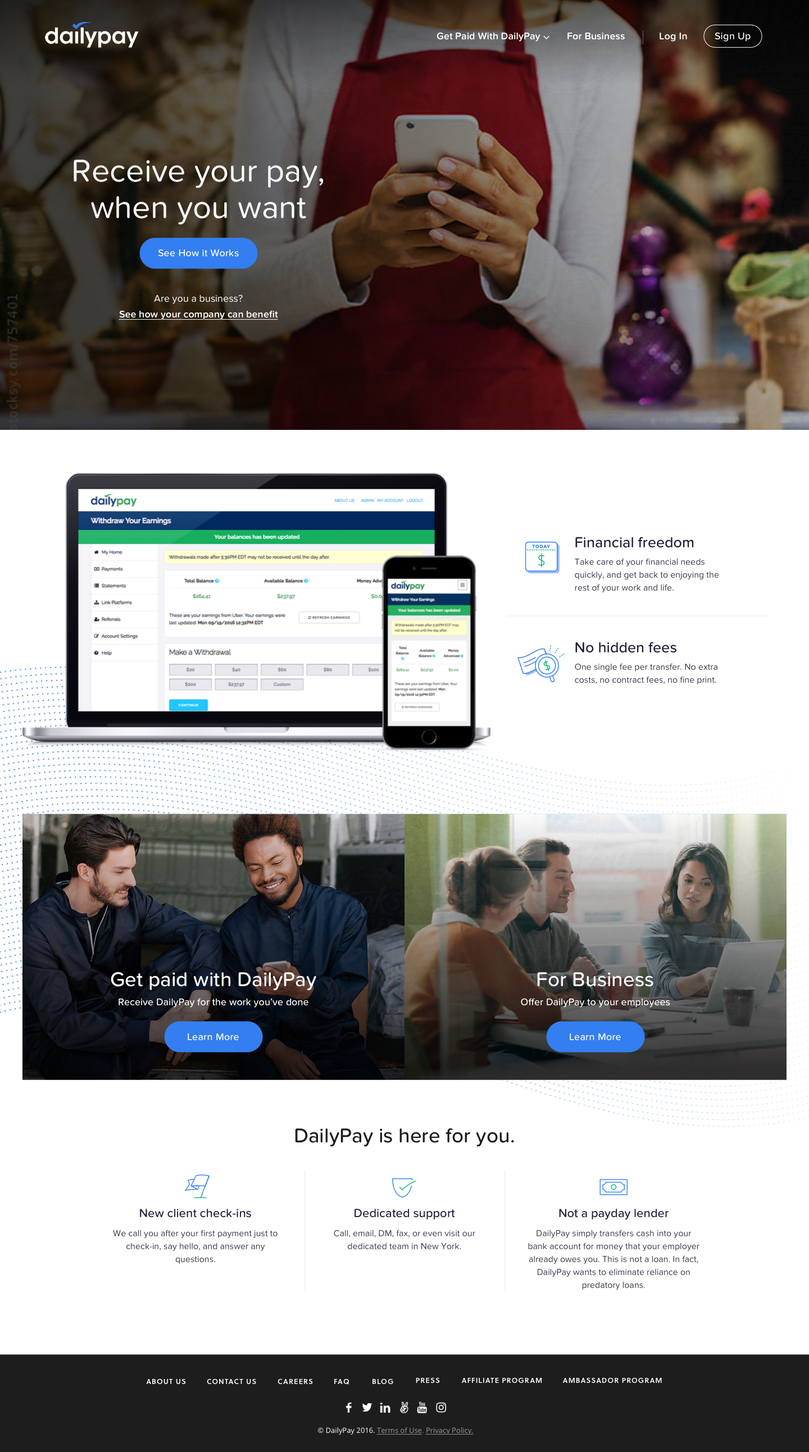
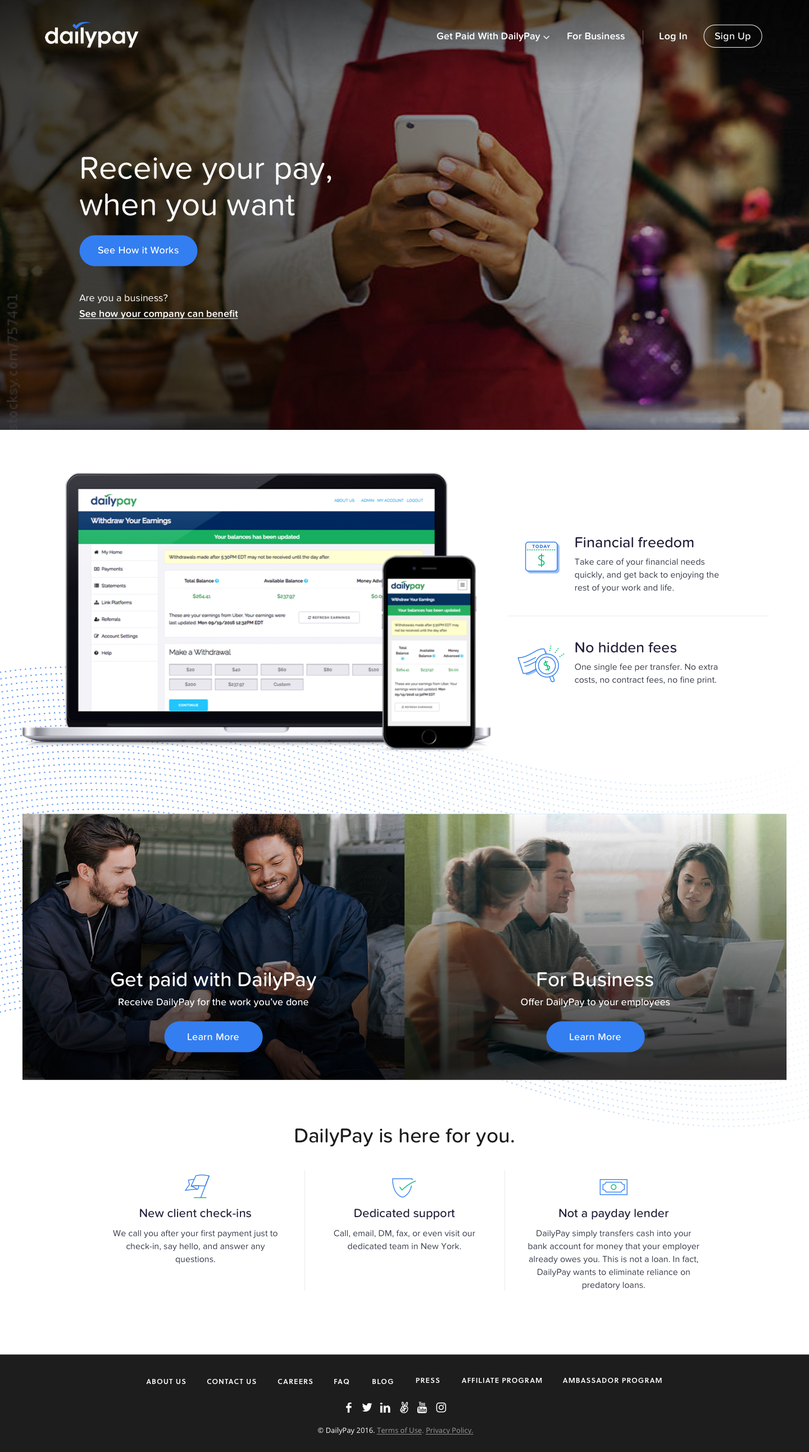
hp text align fix

Changed region(s): [[0.0938, 0.0929, 0.4062, 0.2167]]

diff --git a/dailypay/batch-a-v1/index.hyperesources/index_hype_generated_script.js b/dailypay/batch-a-v1/index.hyperesources/index_hype_generated_script.js
@@ -3,5 +3,5 @@
 (function(){(function k(){function l(a,b,d){var c=!1;null==window[a]&&(null==window[b]?(window[b]=[],window[b].push(k),a=document.getElementsByTagName("head")[0],b=document.createElement("script"),c=h,false==!0&&(c=""),b.type="text/javascript",b.src=c+"/"+d,a.appendChild(b)):window[b].push(k),c=!0);return c}var h="index.hyperesources",c="index",e="index_hype_container";if(false==!1)try{for(var f=document.getElementsByTagName("script"),
 a=0;a<f.length;a++){var b=f[a].src;if(null!=b&&-1!=b.indexOf("index_hype_generated_script.js")){h=b.substr(0,b.lastIndexOf("/"));break}}}catch(n){}if(false==!1&&(a=navigator.userAgent.match(/MSIE (\d+\.\d+)/),a=parseFloat(a&&a[1])||null,a=l("HYPE_538","HYPE_dtl_538",!0==(null!=a&&10>a||false==!0)?"HYPE-538.full.min.js":"HYPE-538.thin.min.js"),false==!0&&(a=a||l("HYPE_w_538","HYPE_wdtl_538","HYPE-538.waypoints.min.js")),a))return;
 f=window.HYPE.documents;if(null!=f[c]){b=1;a=c;do c=""+a+"-"+b++;while(null!=f[c]);for(var d=document.getElementsByTagName("div"),b=!1,a=0;a<d.length;a++)if(d[a].id==e&&null==d[a].getAttribute("HYP_dn")){var b=1,g=e;do e=""+g+"-"+b++;while(null!=document.getElementById(e));d[a].id=e;b=!0;break}if(!1==b)return}b=[];b=[];d={};g={};for(a=0;a<b.length;a++)try{g[b[a].identifier]=b[a].name,d[b[a].name]=eval("(function(){return "+b[a].source+"})();")}catch(m){window.console&&window.console.log(m),
-d[b[a].name]=function(){}}a=new HYPE_538(c,e,{"10":{p:1,n:"Batch_A_RestaurantOwners_v1.jpg",g:"29",t:"@1x"},"2":{p:1,n:"Drivers.png",g:"37",t:"@1x"},"3":{p:1,n:"Daily%20payments%20for.png",g:"39",t:"@1x"},"11":{p:1,n:"Batch_A_ConsumerLanding_v1.jpg",g:"23",t:"@1x"},"4":{p:1,n:"hero.png",g:"41",t:"@1x"},"5":{p:1,n:"main-nav.png",g:"43",t:"@1x"},"12":{p:1,n:"Batch_A_Business_v1.jpg",g:"31",o:true,t:"@1x"},"6":{n:"dailypay-animation.mp4",g:"52",t:"video/mp4"},"7":{p:1,n:"dropdown.png",g:"57",t:"@1x"},"0":{p:1,n:"hero-btn.png",g:"33",t:"@1x"},"8":{p:1,n:"Batch_A_Homepage_v1.jpg",g:"21",t:"@1x"},"1":{p:1,n:"Receive%20cash%20daily%20f.png",g:"35",t:"@1x"},"9":{p:1,n:"Batch_A_Drivers_v1.jpg",g:"25",o:true,t:"@1x"}},h,[],d,[{n:"Homepage",o:"7",X:[0]},{n:"Consumer Landing",o:"10",X:[1]},{n:"Drivers Page",o:"1",X:[2]},{n:"Restaurant Owners",o:"13",X:[3]},{n:"For Business",o:"16",X:[4]}],[{o:"9",p:"600px",x:0,cA:false,Z:2584,Y:1440,c:"#FFFFFF",L:[],bY:1,d:1440,U:{},T:{"59":{f:30,z:0.09,i:"59",n:"Dropdown Animation",j:{"0":[[882,190,882,190,882,181,882,181]]},a:[{f:"61",y:0,z:0.09,i:"e",e:1,s:0,o:"92"},{o:"92",y:0,z:0.09,i:"b",e:88,a:"0",f:"61",s:97},{o:"92",y:0,z:0.09,i:"a",e:760,a:"0",f:"61",s:760},{y:0,i:"cY",s:"0",z:0,o:"92",f:"61"},{y:0.09,i:"e",s:1,z:0,o:"92",f:"c"},{y:0.09,i:"a",s:760,z:0,o:"92",f:"c"},{y:0.09,i:"b",s:88,z:0,o:"92",f:"c"}],b:[]},kTimelineDefaultIdentifier:{i:"kTimelineDefaultIdentifier",n:"Main Timeline",z:0,b:[],a:[],f:30}},bZ:180,O:["92","95","94","93","91"],v:{"92":{h:"57",p:"no-repeat",x:"visible",tY:0.5,a:760,b:88,q:"100% 100%",j:"absolute",z:6,cY:"1",k:"div",d:186,c:244,r:"inline",e:1,tX:0.5},"95":{c:208,d:55,I:"Solid",e:0,J:"Solid",K:"Solid",g:"#E8EBED",L:"Solid",aP:"pointer",M:1,N:1,A:"#D8DDE4",x:"visible",aA:{a:[{d:1.1000000000000001,p:1,g:1,e:"10"}]},O:1,j:"absolute",k:"div",C:"#D8DDE4",z:5,B:"#D8DDE4",D:"#D8DDE4",aC:{a:[{b:"59",p:3,z:true,symbolOid:"8"}]},P:1,a:772,aD:{a:[{b:"59",p:3,z:false,symbolOid:"8"}]},b:46},"91":{h:"21",p:"no-repeat",x:"visible",a:0,q:"100% 100%",b:0,j:"absolute",r:"inline",c:1440,k:"div",z:1,d:2584},"94":{c:108,d:33,I:"Solid",e:0,J:"Solid",K:"Solid",g:"#E8EBED",L:"Solid",aP:"pointer",M:1,N:1,A:"#D8DDE4",x:"visible",aA:{a:[{d:1.1000000000000001,p:1,g:1,e:"16"}]},j:"absolute",O:1,k:"div",C:"#D8DDE4",z:4,B:"#D8DDE4",D:"#D8DDE4",P:1,a:1004,b:46},"93":{c:177,d:62,I:"Solid",e:0,J:"Solid",K:"Solid",g:"#E8EBED",L:"Solid",aP:"pointer",M:1,N:1,A:"#D8DDE4",x:"visible",aA:{a:[{d:1.1000000000000001,p:1,g:1,e:"7"}]},j:"absolute",O:1,k:"div",C:"#D8DDE4",z:2,B:"#D8DDE4",D:"#D8DDE4",P:1,a:72,b:32}}},{o:"12",p:"600px",x:1,cA:false,Z:2533,Y:1440,c:"#FFFFFF",L:[],bY:1,d:1440,U:{},T:{kTimelineDefaultIdentifier:{i:"kTimelineDefaultIdentifier",n:"Main Timeline",z:0,b:[],a:[],f:30}},bZ:180,O:["102","100","97","101","99","96","98"],v:{"99":{c:108,d:33,I:"Solid",e:0,J:"Solid",K:"Solid",g:"#E8EBED",L:"Solid",aP:"pointer",M:1,N:1,A:"#D8DDE4",x:"visible",aA:{a:[{d:1.1000000000000001,p:1,g:1,e:"16"}]},j:"absolute",O:1,k:"div",C:"#D8DDE4",z:3,B:"#D8DDE4",D:"#D8DDE4",P:1,a:1004,b:46},"102":{c:177,d:68,I:"Solid",e:0,J:"Solid",K:"Solid",g:"#E8EBED",L:"Solid",aP:"pointer",M:1,N:1,A:"#D8DDE4",x:"visible",aA:{a:[{d:1.1000000000000001,p:1,g:1,e:"13"}]},j:"absolute",O:1,k:"div",C:"#D8DDE4",z:7,B:"#D8DDE4",D:"#D8DDE4",P:1,a:892,b:621},"97":{c:100,d:55,I:"Solid",e:0,J:"Solid",K:"Solid",g:"#E8EBED",L:"Solid",aP:"pointer",M:1,N:1,A:"#D8DDE4",x:"visible",aA:{a:[{d:1.1000000000000001,p:1,g:1,e:"10"}]},j:"absolute",O:1,k:"div",C:"#D8DDE4",z:5,B:"#D8DDE4",D:"#D8DDE4",P:1,a:405,b:627},"101":{c:208,d:55,I:"Solid",e:0,J:"Solid",K:"Solid",g:"#E8EBED",L:"Solid",aP:"pointer",M:1,N:1,A:"#D8DDE4",x:"visible",aA:{a:[{d:1.1000000000000001,p:1,g:1,e:"10"}]},O:1,j:"absolute",k:"div",C:"#D8DDE4",z:4,B:"#D8DDE4",D:"#D8DDE4",aC:{a:[{b:"59",p:3,z:true,symbolOid:"8"}]},P:1,a:772,aD:{a:[{b:"59",p:3,z:false,symbolOid:"8"}]},b:46},"98":{h:"23",p:"no-repeat",x:"visible",a:0,q:"100% 100%",b:0,j:"absolute",r:"inline",c:1440,k:"div",z:1,d:2533},"100":{c:100,d:68,I:"Solid",e:0,J:"Solid",K:"Solid",g:"#E8EBED",L:"Solid",aP:"pointer",M:1,N:1,A:"#D8DDE4",x:"visible",aA:{a:[{d:1.1000000000000001,p:1,g:1,e:"1"}]},j:"absolute",O:1,k:"div",C:"#D8DDE4",z:6,B:"#D8DDE4",D:"#D8DDE4",P:1,a:669,b:621},"96":{c:177,d:62,I:"Solid",e:0,J:"Solid",K:"Solid",g:"#E8EBED",L:"Solid",aP:"pointer",M:1,N:1,A:"#D8DDE4",x:"visible",aA:{a:[{d:1.1000000000000001,p:1,g:1,e:"7"}]},j:"absolute",O:1,k:"div",C:"#D8DDE4",z:2,B:"#D8DDE4",D:"#D8DDE4",P:1,a:72,b:32}}},{o:"3",p:"600px",x:2,cA:false,Z:5341,Y:1440,c:"#F8F8F8",L:[],bY:1,d:1440,U:{},T:{kTimelineDefaultIdentifier:{f:30,z:17.04,i:"kTimelineDefaultIdentifier",n:"Main Timeline",j:{"3":[[718,306,718,306,718,291,718,291]],"1":[[721,242,721,242,721,227,721,227]],"4":[[718,378,718,378,718,363,718,363]],"2":[[876.5,2,876.5,2,877,2,877,2]],"5":[[720,452,720,452,720,437,720,437]]},a:[{f:"46",y:0,z:0.23,i:"cQ",e:1.02,s:1.2,o:"111"},{f:"46",y:0,z:0.23,i:"cR",e:1.02,s:1.2,o:"111"},{f:"c",y:0,z:0.23,i:"e",e:1,s:0,o:"111"},{f:"c",y:0,z:1,i:"e",e:1,s:0,o:"108"},{f:"c",y:0,z:1,i:"e",e:1,s:0,o:"116"},{y:0,p:1,i:"Video Track",z:17.04,o:"104",f:"a"},{o:"115",y:0.03,z:0.27,i:"b",e:210,a:"1",f:"c",s:225},{o:"115",y:0.03,z:0.27,i:"a",e:569.5,a:"1",f:"c",s:569.5},{f:"c",y:0.03,z:0.27,i:"e",e:1,s:0,o:"115"},{f:"87",y:0.06,z:0.06,i:"e",e:1,s:0,o:"106"},{o:"106",y:0.06,z:0.12,i:"a",e:774.5,a:"2",f:"87",s:876.5},{o:"106",y:0.06,z:0.12,i:"b",e:0,a:"2",f:"87",s:0},{f:"87",y:0.06,z:0.12,i:"c",e:205,s:0,o:"106"},{o:"113",y:0.07,z:0.23,i:"b",e:265.5,a:"3",f:"c",s:280.5},{o:"113",y:0.07,z:0.23,i:"a",e:607.5,a:"3",f:"c",s:607.5},{f:"c",y:0.07,z:0.23,i:"e",e:1,s:0,o:"113"},{o:"112",y:0.11,z:0.22,i:"b",e:342.5,a:"4",f:"c",s:357.5},{o:"112",y:0.11,z:0.22,i:"a",e:515,a:"4",f:"c",s:515},{f:"c",y:0.11,z:0.22,i:"e",e:1,s:0,o:"112"},{y:0.12,i:"e",s:1,z:0,o:"106",f:"c"},{o:"114",y:0.14,z:0.19,i:"b",e:409,a:"5",f:"c",s:424},{o:"114",y:0.14,z:0.19,i:"a",e:603,a:"5",f:"c",s:603},{f:"c",y:0.14,z:0.19,i:"e",e:1,s:0,o:"114"},{y:0.18,i:"b",s:0,z:0,o:"106",f:"c"},{y:0.18,i:"a",s:774,z:0,o:"106",f:"c"},{y:0.18,i:"c",s:205,z:0,o:"106",f:"c"},{y:0.23,i:"cQ",s:1.02,z:0,o:"111",f:"c"},{y:0.23,i:"cR",s:1.02,z:0,o:"111",f:"c"},{y:0.23,i:"e",s:1,z:0,o:"111",f:"c"},{y:1,i:"b",s:210,z:0,o:"115",f:"c"},{y:1,i:"a",s:569.5,z:0,o:"115",f:"c"},{y:1,i:"e",s:1,z:0,o:"115",f:"c"},{y:1,i:"b",s:265.5,z:0,o:"113",f:"c"},{y:1,i:"a",s:607.5,z:0,o:"113",f:"c"},{y:1,i:"e",s:1,z:0,o:"113",f:"c"},{y:1,i:"e",s:1,z:0,o:"108",f:"c"},{y:1,i:"e",s:1,z:0,o:"116",f:"c"},{y:1.03,i:"b",s:342.5,z:0,o:"112",f:"c"},{y:1.03,i:"a",s:515,z:0,o:"112",f:"c"},{y:1.03,i:"e",s:1,z:0,o:"112",f:"c"},{y:1.03,i:"b",s:409,z:0,o:"114",f:"c"},{y:1.03,i:"a",s:603,z:0,o:"114",f:"c"},{y:1.03,i:"e",s:1,z:0,o:"114",f:"c"}],b:[]}},bZ:180,O:["109","105","103","119","118","107","104","106","108","115","113","112","114","111","110","117","116"],v:{"114":{h:"33",p:"no-repeat",x:"visible",tY:0.5,a:603,q:"100% 100%",j:"absolute",b:424,z:2,k:"div",bF:"110",d:56,c:234,r:"inline",e:0,tX:0.5},"103":{c:100,d:55,I:"Solid",e:0,J:"Solid",K:"Solid",g:"#E8EBED",L:"Solid",aP:"pointer",M:1,N:1,A:"#D8DDE4",x:"visible",aA:{a:[{d:1.1000000000000001,p:1,g:1,e:"10"}]},j:"absolute",O:1,k:"div",C:"#D8DDE4",z:15,B:"#D8DDE4",D:"#D8DDE4",P:1,a:405,b:627},"117":{h:"25",p:"no-repeat",x:"visible",a:0,q:"100% 100%",b:-620,j:"absolute",bF:"116",c:1440,k:"div",z:1,d:5341,r:"inline"},"112":{h:"35",p:"no-repeat",x:"visible",tY:0.5,a:515,q:"100% 100%",j:"absolute",b:357.5,z:3,k:"div",bF:"110",d:41,c:406,r:"inline",e:0,tX:0.5},"106":{b:0,c:0,d:4,I:"None",e:0,J:"None",K:"None",g:"#337FF2",L:"None",M:0,N:0,A:"#D8DDE4",x:"visible",j:"absolute",k:"div",O:0,B:"#D8DDE4",C:"#D8DDE4",z:10,P:0,D:"#D8DDE4",tX:0.5,a:876.5,tY:0.5},"109":{c:177,d:68,I:"Solid",e:0,J:"Solid",K:"Solid",g:"#E8EBED",L:"Solid",aP:"pointer",M:1,N:1,A:"#D8DDE4",x:"visible",aA:{a:[{d:1.1000000000000001,p:1,g:1,e:"13"}]},j:"absolute",O:1,k:"div",C:"#D8DDE4",z:17,B:"#D8DDE4",D:"#D8DDE4",P:1,a:892,b:621},"104":{aR:"1",x:"visible",bE:"52",a:0,b:1858,j:"absolute",z:11,k:"video",aO:"0",d:934,c:1440,cQ:1.01,cR:1.01,aQ:"1",aH:"1"},"110":{k:"div",x:"hidden",c:1440,d:620,z:3,a:0,j:"absolute",b:0},"115":{h:"39",p:"no-repeat",x:"visible",tY:0.5,a:569.5,q:"100% 100%",j:"absolute",b:225,z:5,k:"div",bF:"110",d:34,c:303,r:"inline",e:0,tX:0.5},"118":{c:108,d:33,I:"Solid",e:0,J:"Solid",K:"Solid",g:"#E8EBED",L:"Solid",aP:"pointer",M:1,N:1,A:"#D8DDE4",x:"visible",aA:{a:[{d:1.1000000000000001,p:1,g:1,e:"16"}]},j:"absolute",O:1,k:"div",C:"#D8DDE4",z:13,B:"#D8DDE4",D:"#D8DDE4",P:1,a:1004,b:46},"107":{c:177,d:62,I:"Solid",e:0,J:"Solid",K:"Solid",g:"#E8EBED",L:"Solid",aP:"pointer",M:1,N:1,A:"#D8DDE4",x:"visible",aA:{a:[{d:1.1000000000000001,p:1,g:1,e:"7"}]},j:"absolute",O:1,k:"div",C:"#D8DDE4",z:12,B:"#D8DDE4",D:"#D8DDE4",P:1,a:72,b:32},"113":{h:"37",p:"no-repeat",x:"visible",tY:0.5,a:607.5,q:"100% 100%",j:"absolute",b:280.5,z:4,k:"div",bF:"110",d:51,c:221,r:"inline",e:0,tX:0.5},"116":{x:"hidden",k:"div",c:1440,d:4721,z:1,e:0,a:0,j:"absolute",b:620},"105":{c:100,d:68,I:"Solid",e:0,J:"Solid",K:"Solid",g:"#E8EBED",L:"Solid",aP:"pointer",M:1,N:1,A:"#D8DDE4",x:"visible",aA:{a:[{d:1.1000000000000001,p:1,g:1,e:"1"}]},j:"absolute",O:1,k:"div",C:"#D8DDE4",z:16,B:"#D8DDE4",D:"#D8DDE4",P:1,a:669,b:621},"111":{h:"41",p:"no-repeat",x:"visible",a:1,q:"100% 100%",b:0,j:"absolute",bF:"110",z:1,k:"div",c:1440,d:620.56899999999996,r:"inline",cQ:1.2,e:0,cR:1.2},"119":{c:208,d:55,I:"Solid",e:0,J:"Solid",K:"Solid",g:"#E8EBED",L:"Solid",aP:"pointer",M:1,N:1,A:"#D8DDE4",x:"visible",aA:{a:[{d:1.1000000000000001,p:1,g:1,e:"10"}]},O:1,j:"absolute",k:"div",C:"#D8DDE4",z:14,B:"#D8DDE4",D:"#D8DDE4",aC:{a:[{b:"59",p:3,z:true,symbolOid:"8"}]},P:1,a:772,aD:{a:[{b:"59",p:3,z:false,symbolOid:"8"}]},b:46},"108":{h:"43",p:"no-repeat",x:"visible",tY:0.5,a:80,q:"100% 100%",j:"absolute",b:34,z:9,k:"div",c:1277,d:47,r:"inline",e:0,tX:0.5}}},{o:"15",p:"600px",x:3,cA:false,Z:5368,Y:1440,c:"#FFFFFF",L:[],bY:1,d:1440,U:{},T:{kTimelineDefaultIdentifier:{i:"kTimelineDefaultIdentifier",n:"Main Timeline",z:0,b:[],a:[],f:30}},bZ:180,O:["125","121","126","122","120","124","123"],v:{"122":{c:208,d:55,I:"Solid",e:0,J:"Solid",K:"Solid",g:"#E8EBED",L:"Solid",aP:"pointer",M:1,N:1,A:"#D8DDE4",x:"visible",aA:{a:[{d:1.1000000000000001,p:1,g:1,e:"10"}]},O:1,j:"absolute",k:"div",C:"#D8DDE4",z:4,B:"#D8DDE4",D:"#D8DDE4",aC:{a:[{b:"59",p:3,z:true,symbolOid:"8"}]},P:1,a:772,aD:{a:[{b:"59",p:3,z:false,symbolOid:"8"}]},b:46},"125":{c:177,d:68,I:"Solid",e:0,J:"Solid",K:"Solid",g:"#E8EBED",L:"Solid",aP:"pointer",M:1,N:1,A:"#D8DDE4",x:"visible",aA:{a:[{d:1.1000000000000001,p:1,g:1,e:"13"}]},j:"absolute",O:1,k:"div",C:"#D8DDE4",z:7,B:"#D8DDE4",D:"#D8DDE4",P:1,a:892,b:621},"121":{c:100,d:68,I:"Solid",e:0,J:"Solid",K:"Solid",g:"#E8EBED",L:"Solid",aP:"pointer",M:1,N:1,A:"#D8DDE4",x:"visible",aA:{a:[{d:1.1000000000000001,p:1,g:1,e:"1"}]},j:"absolute",O:1,k:"div",C:"#D8DDE4",z:6,B:"#D8DDE4",D:"#D8DDE4",P:1,a:669,b:621},"124":{c:177,d:62,I:"Solid",e:0,J:"Solid",K:"Solid",g:"#E8EBED",L:"Solid",aP:"pointer",M:1,N:1,A:"#D8DDE4",x:"visible",aA:{a:[{d:1.1000000000000001,p:1,g:1,e:"7"}]},j:"absolute",O:1,k:"div",C:"#D8DDE4",z:2,B:"#D8DDE4",D:"#D8DDE4",P:1,a:72,b:32},"120":{c:108,d:33,I:"Solid",e:0,J:"Solid",K:"Solid",g:"#E8EBED",L:"Solid",aP:"pointer",M:1,N:1,A:"#D8DDE4",x:"visible",aA:{a:[{d:1.1000000000000001,p:1,g:1,e:"16"}]},j:"absolute",O:1,k:"div",C:"#D8DDE4",z:3,B:"#D8DDE4",D:"#D8DDE4",P:1,a:1004,b:46},"123":{h:"29",p:"no-repeat",x:"visible",a:0,q:"100% 100%",b:0,j:"absolute",r:"inline",c:1440,k:"div",z:1,d:5368},"126":{c:100,d:55,I:"Solid",e:0,J:"Solid",K:"Solid",g:"#E8EBED",L:"Solid",aP:"pointer",M:1,N:1,A:"#D8DDE4",x:"visible",aA:{a:[{d:1.1000000000000001,p:1,g:1,e:"10"}]},j:"absolute",O:1,k:"div",C:"#D8DDE4",z:5,B:"#D8DDE4",D:"#D8DDE4",P:1,a:405,b:627}}},{o:"18",p:"600px",x:4,cA:false,Z:7074,Y:1440,c:"#FFFFFF",L:[],bY:1,d:1440,U:{},T:{kTimelineDefaultIdentifier:{i:"kTimelineDefaultIdentifier",n:"Main Timeline",z:0,b:[],a:[],f:30}},bZ:180,O:["128","130","127","129"],v:{"127":{c:177,d:62,I:"Solid",e:0,J:"Solid",K:"Solid",g:"#E8EBED",L:"Solid",aP:"pointer",M:1,N:1,A:"#D8DDE4",x:"visible",aA:{a:[{d:1.1000000000000001,p:1,g:1,e:"7"}]},j:"absolute",O:1,k:"div",C:"#D8DDE4",z:2,B:"#D8DDE4",D:"#D8DDE4",P:1,a:72,b:32},"128":{c:208,d:55,I:"Solid",e:0,J:"Solid",K:"Solid",g:"#E8EBED",L:"Solid",aP:"pointer",M:1,N:1,A:"#D8DDE4",x:"visible",aA:{a:[{d:1.1000000000000001,p:1,g:1,e:"10"}]},O:1,j:"absolute",k:"div",C:"#D8DDE4",z:4,B:"#D8DDE4",D:"#D8DDE4",aC:{a:[{b:"59",p:3,z:true,symbolOid:"8"}]},P:1,a:772,aD:{a:[{b:"59",p:3,z:false,symbolOid:"8"}]},b:46},"130":{c:108,d:33,I:"Solid",e:0,J:"Solid",K:"Solid",g:"#E8EBED",L:"Solid",aP:"pointer",M:1,N:1,A:"#D8DDE4",x:"visible",aA:{a:[{d:1.1000000000000001,p:1,g:1,e:"16"}]},j:"absolute",O:1,k:"div",C:"#D8DDE4",z:3,B:"#D8DDE4",D:"#D8DDE4",P:1,a:1004,b:46},"129":{h:"31",p:"no-repeat",x:"visible",a:0,q:"100% 100%",b:0,j:"absolute",r:"inline",c:1440,k:"div",z:1,d:7074}}}],{},g,{"61":[[0,0,0.4262,0.05393,0.07059,0.8431,1,1]],"87":[[0,0,0.4009,0.1659,-0.01832,0.6602,1,1]],"46":[[0,0,0.4171,0.07835,0.07777,0.8551,1,1]]},null,false,true,-1,true,true,false,true);f[c]=a.API;document.getElementById(e).setAttribute("HYP_dn",
+d[b[a].name]=function(){}}a=new HYPE_538(c,e,{"10":{p:1,n:"Batch_A_ConsumerLanding_v1.jpg",g:"23",t:"@1x"},"2":{p:1,n:"Drivers.png",g:"37",t:"@1x"},"3":{p:1,n:"Daily%20payments%20for.png",g:"39",t:"@1x"},"11":{p:1,n:"Batch_A_Business_v1.jpg",g:"31",o:true,t:"@1x"},"4":{p:1,n:"hero.png",g:"41",t:"@1x"},"5":{p:1,n:"main-nav.png",g:"43",t:"@1x"},"12":{p:1,n:"Batch_A_Homepage_v1.jpg",g:"21",t:"@1x"},"6":{n:"dailypay-animation.mp4",g:"52",t:"video/mp4"},"7":{p:1,n:"dropdown.png",g:"57",t:"@1x"},"0":{p:1,n:"hero-btn.png",g:"33",t:"@1x"},"8":{p:1,n:"Batch_A_Drivers_v1.jpg",g:"25",o:true,t:"@1x"},"1":{p:1,n:"Receive%20cash%20daily%20f.png",g:"35",t:"@1x"},"9":{p:1,n:"Batch_A_RestaurantOwners_v1.jpg",g:"29",t:"@1x"}},h,[],d,[{n:"Homepage",o:"7",X:[0]},{n:"Consumer Landing",o:"10",X:[1]},{n:"Drivers Page",o:"1",X:[2]},{n:"Restaurant Owners",o:"13",X:[3]},{n:"For Business",o:"16",X:[4]}],[{o:"9",p:"600px",x:0,cA:false,Z:2584,Y:1440,c:"#FFFFFF",L:[],bY:1,d:1440,U:{},T:{"59":{f:30,z:0.09,i:"59",n:"Dropdown Animation",j:{"0":[[882,190,882,190,882,181,882,181]]},a:[{f:"61",y:0,z:0.09,i:"e",e:1,s:0,o:"92"},{o:"92",y:0,z:0.09,i:"b",e:88,a:"0",f:"61",s:97},{o:"92",y:0,z:0.09,i:"a",e:760,a:"0",f:"61",s:760},{y:0,i:"cY",s:"0",z:0,o:"92",f:"61"},{y:0.09,i:"e",s:1,z:0,o:"92",f:"c"},{y:0.09,i:"a",s:760,z:0,o:"92",f:"c"},{y:0.09,i:"b",s:88,z:0,o:"92",f:"c"}],b:[]},kTimelineDefaultIdentifier:{i:"kTimelineDefaultIdentifier",n:"Main Timeline",z:0,b:[],a:[],f:30}},bZ:180,O:["92","95","94","93","91"],v:{"92":{h:"57",p:"no-repeat",x:"visible",tY:0.5,a:760,b:88,q:"100% 100%",j:"absolute",z:6,cY:"1",k:"div",d:186,c:244,r:"inline",e:1,tX:0.5},"95":{c:208,d:55,I:"Solid",e:0,J:"Solid",K:"Solid",g:"#E8EBED",L:"Solid",aP:"pointer",M:1,N:1,A:"#D8DDE4",x:"visible",aA:{a:[{d:1.1000000000000001,p:1,g:1,e:"10"}]},O:1,j:"absolute",k:"div",C:"#D8DDE4",z:5,B:"#D8DDE4",D:"#D8DDE4",aC:{a:[{b:"59",p:3,z:true,symbolOid:"8"}]},P:1,a:772,aD:{a:[{b:"59",p:3,z:false,symbolOid:"8"}]},b:46},"91":{h:"21",p:"no-repeat",x:"visible",a:0,q:"100% 100%",b:0,j:"absolute",r:"inline",c:1440,k:"div",z:1,d:2584},"94":{c:108,d:33,I:"Solid",e:0,J:"Solid",K:"Solid",g:"#E8EBED",L:"Solid",aP:"pointer",M:1,N:1,A:"#D8DDE4",x:"visible",aA:{a:[{d:1.1000000000000001,p:1,g:1,e:"16"}]},j:"absolute",O:1,k:"div",C:"#D8DDE4",z:4,B:"#D8DDE4",D:"#D8DDE4",P:1,a:1004,b:46},"93":{c:177,d:62,I:"Solid",e:0,J:"Solid",K:"Solid",g:"#E8EBED",L:"Solid",aP:"pointer",M:1,N:1,A:"#D8DDE4",x:"visible",aA:{a:[{d:1.1000000000000001,p:1,g:1,e:"7"}]},j:"absolute",O:1,k:"div",C:"#D8DDE4",z:2,B:"#D8DDE4",D:"#D8DDE4",P:1,a:72,b:32}}},{o:"12",p:"600px",x:1,cA:false,Z:2533,Y:1440,c:"#FFFFFF",L:[],bY:1,d:1440,U:{},T:{kTimelineDefaultIdentifier:{i:"kTimelineDefaultIdentifier",n:"Main Timeline",z:0,b:[],a:[],f:30}},bZ:180,O:["102","100","97","101","99","96","98"],v:{"99":{c:108,d:33,I:"Solid",e:0,J:"Solid",K:"Solid",g:"#E8EBED",L:"Solid",aP:"pointer",M:1,N:1,A:"#D8DDE4",x:"visible",aA:{a:[{d:1.1000000000000001,p:1,g:1,e:"16"}]},j:"absolute",O:1,k:"div",C:"#D8DDE4",z:3,B:"#D8DDE4",D:"#D8DDE4",P:1,a:1004,b:46},"102":{c:177,d:68,I:"Solid",e:0,J:"Solid",K:"Solid",g:"#E8EBED",L:"Solid",aP:"pointer",M:1,N:1,A:"#D8DDE4",x:"visible",aA:{a:[{d:1.1000000000000001,p:1,g:1,e:"13"}]},j:"absolute",O:1,k:"div",C:"#D8DDE4",z:7,B:"#D8DDE4",D:"#D8DDE4",P:1,a:892,b:621},"97":{c:100,d:55,I:"Solid",e:0,J:"Solid",K:"Solid",g:"#E8EBED",L:"Solid",aP:"pointer",M:1,N:1,A:"#D8DDE4",x:"visible",aA:{a:[{d:1.1000000000000001,p:1,g:1,e:"10"}]},j:"absolute",O:1,k:"div",C:"#D8DDE4",z:5,B:"#D8DDE4",D:"#D8DDE4",P:1,a:405,b:627},"101":{c:208,d:55,I:"Solid",e:0,J:"Solid",K:"Solid",g:"#E8EBED",L:"Solid",aP:"pointer",M:1,N:1,A:"#D8DDE4",x:"visible",aA:{a:[{d:1.1000000000000001,p:1,g:1,e:"10"}]},O:1,j:"absolute",k:"div",C:"#D8DDE4",z:4,B:"#D8DDE4",D:"#D8DDE4",aC:{a:[{b:"59",p:3,z:true,symbolOid:"8"}]},P:1,a:772,aD:{a:[{b:"59",p:3,z:false,symbolOid:"8"}]},b:46},"98":{h:"23",p:"no-repeat",x:"visible",a:0,q:"100% 100%",b:0,j:"absolute",r:"inline",c:1440,k:"div",z:1,d:2533},"100":{c:100,d:68,I:"Solid",e:0,J:"Solid",K:"Solid",g:"#E8EBED",L:"Solid",aP:"pointer",M:1,N:1,A:"#D8DDE4",x:"visible",aA:{a:[{d:1.1000000000000001,p:1,g:1,e:"1"}]},j:"absolute",O:1,k:"div",C:"#D8DDE4",z:6,B:"#D8DDE4",D:"#D8DDE4",P:1,a:669,b:621},"96":{c:177,d:62,I:"Solid",e:0,J:"Solid",K:"Solid",g:"#E8EBED",L:"Solid",aP:"pointer",M:1,N:1,A:"#D8DDE4",x:"visible",aA:{a:[{d:1.1000000000000001,p:1,g:1,e:"7"}]},j:"absolute",O:1,k:"div",C:"#D8DDE4",z:2,B:"#D8DDE4",D:"#D8DDE4",P:1,a:72,b:32}}},{o:"3",p:"600px",x:2,cA:false,Z:5341,Y:1440,c:"#F8F8F8",L:[],bY:1,d:1440,U:{},T:{kTimelineDefaultIdentifier:{f:30,z:17.04,i:"kTimelineDefaultIdentifier",n:"Main Timeline",j:{"3":[[718,306,718,306,718,291,718,291]],"1":[[721,242,721,242,721,227,721,227]],"4":[[718,378,718,378,718,363,718,363]],"2":[[876.5,2,876.5,2,877,2,877,2]],"5":[[720,452,720,452,720,437,720,437]]},a:[{f:"46",y:0,z:0.23,i:"cQ",e:1.02,s:1.2,o:"111"},{f:"46",y:0,z:0.23,i:"cR",e:1.02,s:1.2,o:"111"},{f:"c",y:0,z:0.23,i:"e",e:1,s:0,o:"111"},{f:"c",y:0,z:1,i:"e",e:1,s:0,o:"108"},{f:"c",y:0,z:1,i:"e",e:1,s:0,o:"116"},{y:0,p:1,i:"Video Track",z:17.04,o:"104",f:"a"},{o:"115",y:0.03,z:0.27,i:"b",e:210,a:"1",f:"c",s:225},{o:"115",y:0.03,z:0.27,i:"a",e:569.5,a:"1",f:"c",s:569.5},{f:"c",y:0.03,z:0.27,i:"e",e:1,s:0,o:"115"},{f:"87",y:0.06,z:0.06,i:"e",e:1,s:0,o:"106"},{o:"106",y:0.06,z:0.12,i:"a",e:774.5,a:"2",f:"87",s:876.5},{o:"106",y:0.06,z:0.12,i:"b",e:0,a:"2",f:"87",s:0},{f:"87",y:0.06,z:0.12,i:"c",e:205,s:0,o:"106"},{o:"113",y:0.07,z:0.23,i:"b",e:265.5,a:"3",f:"c",s:280.5},{o:"113",y:0.07,z:0.23,i:"a",e:607.5,a:"3",f:"c",s:607.5},{f:"c",y:0.07,z:0.23,i:"e",e:1,s:0,o:"113"},{o:"112",y:0.11,z:0.22,i:"b",e:342.5,a:"4",f:"c",s:357.5},{o:"112",y:0.11,z:0.22,i:"a",e:515,a:"4",f:"c",s:515},{f:"c",y:0.11,z:0.22,i:"e",e:1,s:0,o:"112"},{y:0.12,i:"e",s:1,z:0,o:"106",f:"c"},{o:"114",y:0.14,z:0.19,i:"b",e:409,a:"5",f:"c",s:424},{o:"114",y:0.14,z:0.19,i:"a",e:603,a:"5",f:"c",s:603},{f:"c",y:0.14,z:0.19,i:"e",e:1,s:0,o:"114"},{y:0.18,i:"b",s:0,z:0,o:"106",f:"c"},{y:0.18,i:"a",s:774,z:0,o:"106",f:"c"},{y:0.18,i:"c",s:205,z:0,o:"106",f:"c"},{y:0.23,i:"cQ",s:1.02,z:0,o:"111",f:"c"},{y:0.23,i:"cR",s:1.02,z:0,o:"111",f:"c"},{y:0.23,i:"e",s:1,z:0,o:"111",f:"c"},{y:1,i:"b",s:210,z:0,o:"115",f:"c"},{y:1,i:"a",s:569.5,z:0,o:"115",f:"c"},{y:1,i:"e",s:1,z:0,o:"115",f:"c"},{y:1,i:"b",s:265.5,z:0,o:"113",f:"c"},{y:1,i:"a",s:607.5,z:0,o:"113",f:"c"},{y:1,i:"e",s:1,z:0,o:"113",f:"c"},{y:1,i:"e",s:1,z:0,o:"108",f:"c"},{y:1,i:"e",s:1,z:0,o:"116",f:"c"},{y:1.03,i:"b",s:342.5,z:0,o:"112",f:"c"},{y:1.03,i:"a",s:515,z:0,o:"112",f:"c"},{y:1.03,i:"e",s:1,z:0,o:"112",f:"c"},{y:1.03,i:"b",s:409,z:0,o:"114",f:"c"},{y:1.03,i:"a",s:603,z:0,o:"114",f:"c"},{y:1.03,i:"e",s:1,z:0,o:"114",f:"c"}],b:[]}},bZ:180,O:["109","105","103","119","118","107","104","106","108","115","113","112","114","111","110","117","116"],v:{"114":{h:"33",p:"no-repeat",x:"visible",tY:0.5,a:603,q:"100% 100%",j:"absolute",b:424,z:2,k:"div",bF:"110",d:56,c:234,r:"inline",e:0,tX:0.5},"103":{c:100,d:55,I:"Solid",e:0,J:"Solid",K:"Solid",g:"#E8EBED",L:"Solid",aP:"pointer",M:1,N:1,A:"#D8DDE4",x:"visible",aA:{a:[{d:1.1000000000000001,p:1,g:1,e:"10"}]},j:"absolute",O:1,k:"div",C:"#D8DDE4",z:15,B:"#D8DDE4",D:"#D8DDE4",P:1,a:405,b:627},"117":{h:"25",p:"no-repeat",x:"visible",a:0,q:"100% 100%",b:-620,j:"absolute",bF:"116",c:1440,k:"div",z:1,d:5341,r:"inline"},"112":{h:"35",p:"no-repeat",x:"visible",tY:0.5,a:515,q:"100% 100%",j:"absolute",b:357.5,z:3,k:"div",bF:"110",d:41,c:406,r:"inline",e:0,tX:0.5},"106":{b:0,c:0,d:4,I:"None",e:0,J:"None",K:"None",g:"#337FF2",L:"None",M:0,N:0,A:"#D8DDE4",x:"visible",j:"absolute",k:"div",O:0,B:"#D8DDE4",C:"#D8DDE4",z:10,P:0,D:"#D8DDE4",tX:0.5,a:876.5,tY:0.5},"109":{c:177,d:68,I:"Solid",e:0,J:"Solid",K:"Solid",g:"#E8EBED",L:"Solid",aP:"pointer",M:1,N:1,A:"#D8DDE4",x:"visible",aA:{a:[{d:1.1000000000000001,p:1,g:1,e:"13"}]},j:"absolute",O:1,k:"div",C:"#D8DDE4",z:17,B:"#D8DDE4",D:"#D8DDE4",P:1,a:892,b:621},"104":{aR:"1",x:"visible",bE:"52",a:0,b:1858,j:"absolute",z:11,k:"video",aO:"0",d:934,c:1440,cQ:1.01,cR:1.01,aQ:"1",aH:"1"},"110":{k:"div",x:"hidden",c:1440,d:620,z:3,a:0,j:"absolute",b:0},"115":{h:"39",p:"no-repeat",x:"visible",tY:0.5,a:569.5,q:"100% 100%",j:"absolute",b:225,z:5,k:"div",bF:"110",d:34,c:303,r:"inline",e:0,tX:0.5},"118":{c:108,d:33,I:"Solid",e:0,J:"Solid",K:"Solid",g:"#E8EBED",L:"Solid",aP:"pointer",M:1,N:1,A:"#D8DDE4",x:"visible",aA:{a:[{d:1.1000000000000001,p:1,g:1,e:"16"}]},j:"absolute",O:1,k:"div",C:"#D8DDE4",z:13,B:"#D8DDE4",D:"#D8DDE4",P:1,a:1004,b:46},"107":{c:177,d:62,I:"Solid",e:0,J:"Solid",K:"Solid",g:"#E8EBED",L:"Solid",aP:"pointer",M:1,N:1,A:"#D8DDE4",x:"visible",aA:{a:[{d:1.1000000000000001,p:1,g:1,e:"7"}]},j:"absolute",O:1,k:"div",C:"#D8DDE4",z:12,B:"#D8DDE4",D:"#D8DDE4",P:1,a:72,b:32},"113":{h:"37",p:"no-repeat",x:"visible",tY:0.5,a:607.5,q:"100% 100%",j:"absolute",b:280.5,z:4,k:"div",bF:"110",d:51,c:221,r:"inline",e:0,tX:0.5},"116":{x:"hidden",k:"div",c:1440,d:4721,z:1,e:0,a:0,j:"absolute",b:620},"105":{c:100,d:68,I:"Solid",e:0,J:"Solid",K:"Solid",g:"#E8EBED",L:"Solid",aP:"pointer",M:1,N:1,A:"#D8DDE4",x:"visible",aA:{a:[{d:1.1000000000000001,p:1,g:1,e:"1"}]},j:"absolute",O:1,k:"div",C:"#D8DDE4",z:16,B:"#D8DDE4",D:"#D8DDE4",P:1,a:669,b:621},"111":{h:"41",p:"no-repeat",x:"visible",a:1,q:"100% 100%",b:0,j:"absolute",bF:"110",z:1,k:"div",c:1440,d:620.56899999999996,r:"inline",cQ:1.2,e:0,cR:1.2},"119":{c:208,d:55,I:"Solid",e:0,J:"Solid",K:"Solid",g:"#E8EBED",L:"Solid",aP:"pointer",M:1,N:1,A:"#D8DDE4",x:"visible",aA:{a:[{d:1.1000000000000001,p:1,g:1,e:"10"}]},O:1,j:"absolute",k:"div",C:"#D8DDE4",z:14,B:"#D8DDE4",D:"#D8DDE4",aC:{a:[{b:"59",p:3,z:true,symbolOid:"8"}]},P:1,a:772,aD:{a:[{b:"59",p:3,z:false,symbolOid:"8"}]},b:46},"108":{h:"43",p:"no-repeat",x:"visible",tY:0.5,a:80,q:"100% 100%",j:"absolute",b:34,z:9,k:"div",c:1277,d:47,r:"inline",e:0,tX:0.5}}},{o:"15",p:"600px",x:3,cA:false,Z:5368,Y:1440,c:"#FFFFFF",L:[],bY:1,d:1440,U:{},T:{kTimelineDefaultIdentifier:{i:"kTimelineDefaultIdentifier",n:"Main Timeline",z:0,b:[],a:[],f:30}},bZ:180,O:["125","121","126","122","120","124","123"],v:{"122":{c:208,d:55,I:"Solid",e:0,J:"Solid",K:"Solid",g:"#E8EBED",L:"Solid",aP:"pointer",M:1,N:1,A:"#D8DDE4",x:"visible",aA:{a:[{d:1.1000000000000001,p:1,g:1,e:"10"}]},O:1,j:"absolute",k:"div",C:"#D8DDE4",z:4,B:"#D8DDE4",D:"#D8DDE4",aC:{a:[{b:"59",p:3,z:true,symbolOid:"8"}]},P:1,a:772,aD:{a:[{b:"59",p:3,z:false,symbolOid:"8"}]},b:46},"125":{c:177,d:68,I:"Solid",e:0,J:"Solid",K:"Solid",g:"#E8EBED",L:"Solid",aP:"pointer",M:1,N:1,A:"#D8DDE4",x:"visible",aA:{a:[{d:1.1000000000000001,p:1,g:1,e:"13"}]},j:"absolute",O:1,k:"div",C:"#D8DDE4",z:7,B:"#D8DDE4",D:"#D8DDE4",P:1,a:892,b:621},"121":{c:100,d:68,I:"Solid",e:0,J:"Solid",K:"Solid",g:"#E8EBED",L:"Solid",aP:"pointer",M:1,N:1,A:"#D8DDE4",x:"visible",aA:{a:[{d:1.1000000000000001,p:1,g:1,e:"1"}]},j:"absolute",O:1,k:"div",C:"#D8DDE4",z:6,B:"#D8DDE4",D:"#D8DDE4",P:1,a:669,b:621},"124":{c:177,d:62,I:"Solid",e:0,J:"Solid",K:"Solid",g:"#E8EBED",L:"Solid",aP:"pointer",M:1,N:1,A:"#D8DDE4",x:"visible",aA:{a:[{d:1.1000000000000001,p:1,g:1,e:"7"}]},j:"absolute",O:1,k:"div",C:"#D8DDE4",z:2,B:"#D8DDE4",D:"#D8DDE4",P:1,a:72,b:32},"120":{c:108,d:33,I:"Solid",e:0,J:"Solid",K:"Solid",g:"#E8EBED",L:"Solid",aP:"pointer",M:1,N:1,A:"#D8DDE4",x:"visible",aA:{a:[{d:1.1000000000000001,p:1,g:1,e:"16"}]},j:"absolute",O:1,k:"div",C:"#D8DDE4",z:3,B:"#D8DDE4",D:"#D8DDE4",P:1,a:1004,b:46},"123":{h:"29",p:"no-repeat",x:"visible",a:0,q:"100% 100%",b:0,j:"absolute",r:"inline",c:1440,k:"div",z:1,d:5368},"126":{c:100,d:55,I:"Solid",e:0,J:"Solid",K:"Solid",g:"#E8EBED",L:"Solid",aP:"pointer",M:1,N:1,A:"#D8DDE4",x:"visible",aA:{a:[{d:1.1000000000000001,p:1,g:1,e:"10"}]},j:"absolute",O:1,k:"div",C:"#D8DDE4",z:5,B:"#D8DDE4",D:"#D8DDE4",P:1,a:405,b:627}}},{o:"18",p:"600px",x:4,cA:false,Z:7074,Y:1440,c:"#FFFFFF",L:[],bY:1,d:1440,U:{},T:{kTimelineDefaultIdentifier:{i:"kTimelineDefaultIdentifier",n:"Main Timeline",z:0,b:[],a:[],f:30}},bZ:180,O:["128","130","127","129"],v:{"127":{c:177,d:62,I:"Solid",e:0,J:"Solid",K:"Solid",g:"#E8EBED",L:"Solid",aP:"pointer",M:1,N:1,A:"#D8DDE4",x:"visible",aA:{a:[{d:1.1000000000000001,p:1,g:1,e:"7"}]},j:"absolute",O:1,k:"div",C:"#D8DDE4",z:2,B:"#D8DDE4",D:"#D8DDE4",P:1,a:72,b:32},"128":{c:208,d:55,I:"Solid",e:0,J:"Solid",K:"Solid",g:"#E8EBED",L:"Solid",aP:"pointer",M:1,N:1,A:"#D8DDE4",x:"visible",aA:{a:[{d:1.1000000000000001,p:1,g:1,e:"10"}]},O:1,j:"absolute",k:"div",C:"#D8DDE4",z:4,B:"#D8DDE4",D:"#D8DDE4",aC:{a:[{b:"59",p:3,z:true,symbolOid:"8"}]},P:1,a:772,aD:{a:[{b:"59",p:3,z:false,symbolOid:"8"}]},b:46},"130":{c:108,d:33,I:"Solid",e:0,J:"Solid",K:"Solid",g:"#E8EBED",L:"Solid",aP:"pointer",M:1,N:1,A:"#D8DDE4",x:"visible",aA:{a:[{d:1.1000000000000001,p:1,g:1,e:"16"}]},j:"absolute",O:1,k:"div",C:"#D8DDE4",z:3,B:"#D8DDE4",D:"#D8DDE4",P:1,a:1004,b:46},"129":{h:"31",p:"no-repeat",x:"visible",a:0,q:"100% 100%",b:0,j:"absolute",r:"inline",c:1440,k:"div",z:1,d:7074}}}],{},g,{"61":[[0,0,0.4262,0.05393,0.07059,0.8431,1,1]],"87":[[0,0,0.4009,0.1659,-0.01832,0.6602,1,1]],"46":[[0,0,0.4171,0.07835,0.07777,0.8551,1,1]]},null,false,true,-1,true,true,false,true);f[c]=a.API;document.getElementById(e).setAttribute("HYP_dn",
 c);a.z_o(this.body)})();})();

diff --git a/dailypay/batch-a-v1/index.html b/dailypay/batch-a-v1/index.html
@@ -24,7 +24,7 @@
 	<!-- copy these lines to your document: -->
 
 	<div id="index_hype_container" style="margin:auto;position:relative;width:1440px;height:2584px;overflow:hidden;" aria-live="polite">
-		<script type="text/javascript" charset="utf-8" src="index.hyperesources/index_hype_generated_script.js?33945"></script>
+		<script type="text/javascript" charset="utf-8" src="index.hyperesources/index_hype_generated_script.js?18026"></script>
 	</div>
 
 	<!-- end copy -->
